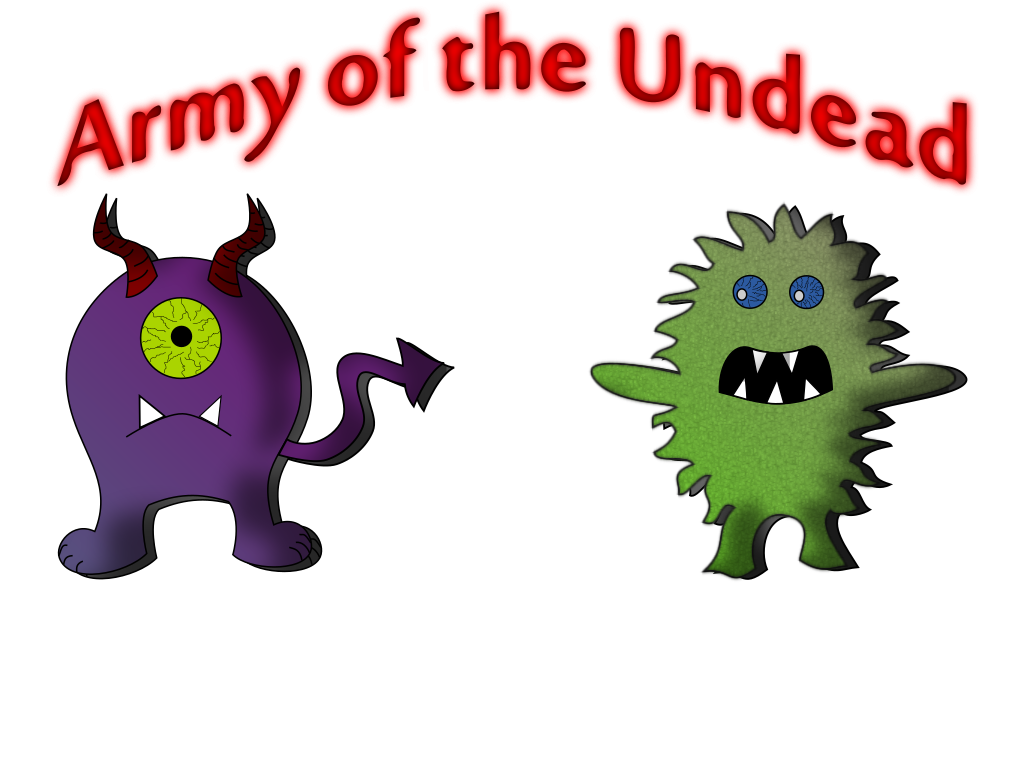
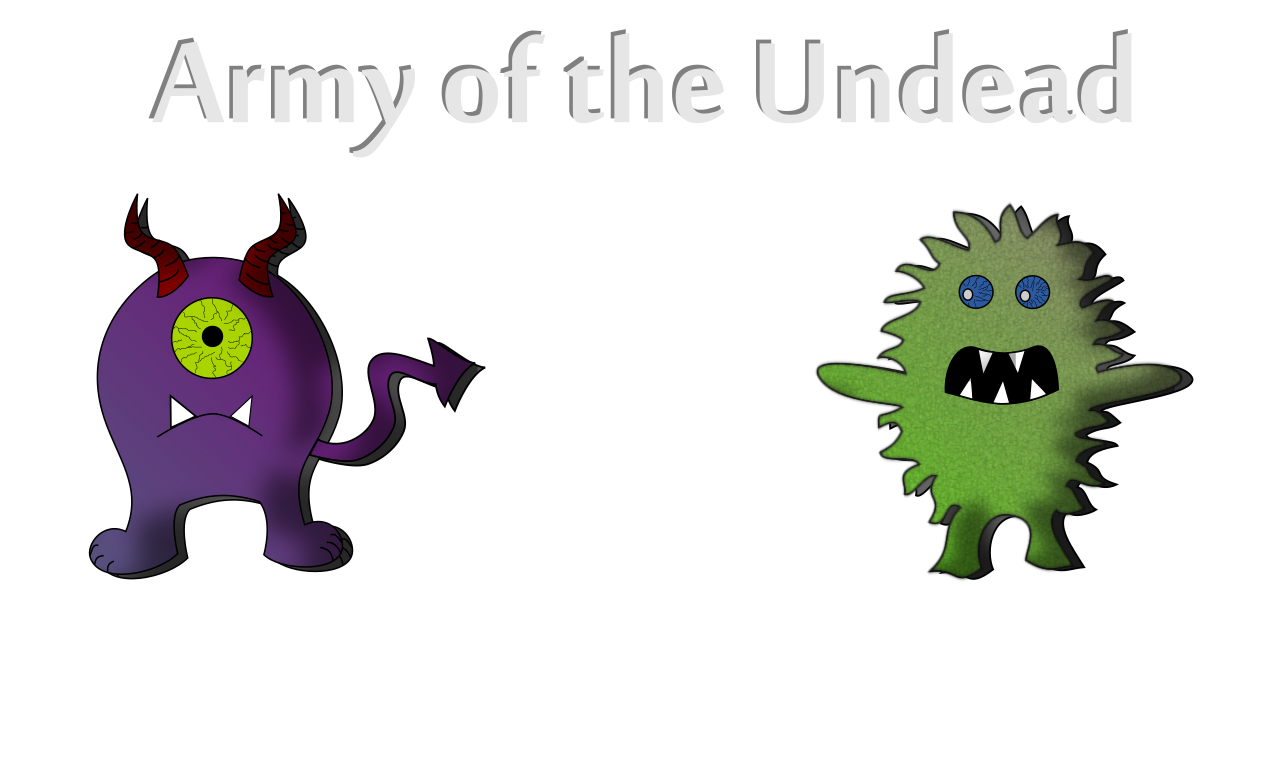
-Background art to the screens
git-svn-id: http://gwnp-server/repos/Programming/Team%20Work/Week%20Of%20Awesome%20III@1517 8ec5e4ca-6654-e54a-8ea6-c57665c7f23a

diff --git a/WOA3/WOA3/Model/Display/BaseMenu.cs b/WOA3/WOA3/Model/Display/BaseMenu.cs
@@ -45,7 +45,7 @@ namespace WOA3.Model.Display {
 		#endregion Class properties
 
 		#region Constructor
-		public BaseMenu(ContentManager content, string backgroundName, String title = null) {
+		public BaseMenu(ContentManager content, string backgroundName) {
 			Vector2 position = new Vector2(Constants.RESOLUTION_X / 2, Constants.RESOLUTION_Y / 8 * 4);
 			this.content = content;
 			Texture2D texture = LoadingUtils.load<Texture2D>(content, backgroundName);
@@ -55,14 +55,6 @@ namespace WOA3.Model.Display {
 				Position = position
 			};
 			this.background = new StaticDrawable2D(parms);
-
-
-			if (this.title != null) {
-				StaticDrawable2DParams titleParms = new StaticDrawable2DParams() {
-					Texture = LoadingUtils.load<Texture2D>(content, title)
-				};
-				this.title = new StaticDrawable2D(titleParms);
-			}
 		}
 		#endregion Constructor
 

diff --git a/WOA3/WOA3/Model/Display/TutorialComplete.cs b/WOA3/WOA3/Model/Display/TutorialComplete.cs
@@ -21,7 +21,8 @@ namespace WOA3.Model.Display {
 		#endregion Class properties
 
 		#region Constructor
-		public TutorialComplete(ContentManager content) : base(content, "BackgroundScreen") {
+		public TutorialComplete(ContentManager content)
+			: base(content, "GeneralBackground") {
 
 			VisualCallback setPrevipousState = delegate() {
 				GameStateMachine.getInstance().goToPreviousState();

diff --git a/WOA3/WOA3/Model/Display/MenuDisplay.cs b/WOA3/WOA3/Model/Display/MenuDisplay.cs
@@ -36,7 +36,7 @@ public 	class MenuDisplay : BaseMenu {
 
 		#region Constructor
 		public MenuDisplay(ContentManager content)
-		: base(content, "BackgroundScreen", "Title") {
+		: base(content, "GeneralBackground") {
 			VisualCallback setTutorialState = delegate() {
 				((MainMenuState)GameStateMachine.getInstance().CurrentState).pushToTutorial();
 			};

diff --git a/WOA3/WOA3/Model/Display/GameOverDisplay.cs b/WOA3/WOA3/Model/Display/GameOverDisplay.cs
@@ -35,7 +35,7 @@ namespace WOA3.Model.Display {
 
 		#region Constructor
 		public GameOverDisplay(GraphicsDevice graphics, ContentManager content)
-			: base(content, "EndGame") {			
+			: base(content, "GameOver") {			
 
 			
 			VisualCallback setPrevipousState = delegate() {
